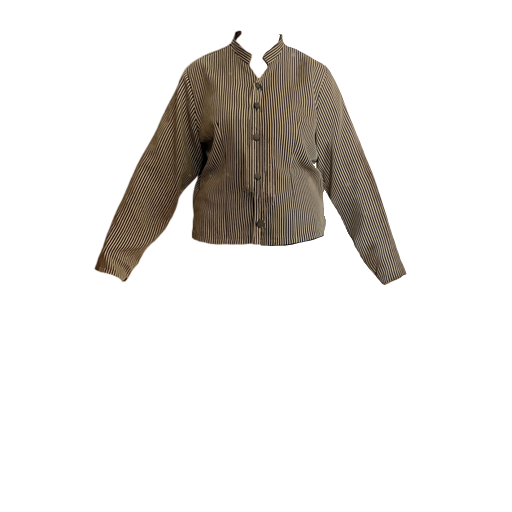
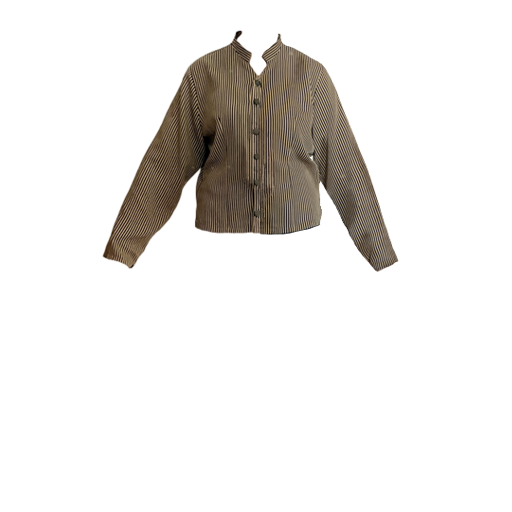
updated stripe shirt png, added sheer

Changed region(s): [[0.1875, 0.0625, 0.8125, 0.5625]]

diff --git a/index.html b/index.html
@@ -149,11 +149,11 @@
 
         function get_tops(string) {
           tops_dictionary = {
-          "breathables":["assets/tops/white_basic.png",  "assets/tops/red_polkadot.png", "assets/tops/grey_heart.png", "assets/tops/pink_checkered.png", "assets/tops/wednesday.png"]
+          "breathables":["assets/tops/white_basic.png",  "assets/tops/red_polkadot.png", "assets/tops/grey_heart.png", "assets/tops/pink_checkered.png", "assets/tops/wednesday.png","assets/tops/paleblue_sheer.png"]
        ,  "shorties":["assets/tops/white_basic.png",  "assets/tops/red_polkadot.png"]
-       ,  "collared":["assets/tops/red_polkadot.png", "assets/tops/pink_checkered.png", "assets/wednesday.png", "assets/tops/black-beige_striped.png",]
+       ,  "collared":["assets/tops/red_polkadot.png", "assets/tops/pink_checkered.png", "assets/wednesday.png", "assets/tops/black-beige_striped.png","assets/tops/paleblue_sheer.png"]
        ,  "uncollared":["assets/tops/black_cowl.png", "assets/tops/white_basic.png"]
-       ,  "all":["assets/tops/white_basic.png",  "assets/tops/red_polkadot.png", "assets/tops/black_cowl.png", "assets/tops/black_bustier.png", "assets/tops/grey_heart.png", "assets/tops/pink_checkered.png", "assets/tops/wednesday.png", "assets/tops/black-beige_striped.png"]
+       ,  "all":["assets/tops/white_basic.png",  "assets/tops/red_polkadot.png", "assets/tops/black_cowl.png", "assets/tops/black_bustier.png", "assets/tops/grey_heart.png", "assets/tops/pink_checkered.png", "assets/tops/wednesday.png", "assets/tops/black-beige_striped.png", "assets/tops/paleblue_sheer.png"]
       }
           console.log(string);
          var randomNum = Math.floor(Math.random() * tops_dictionary[string].length);
